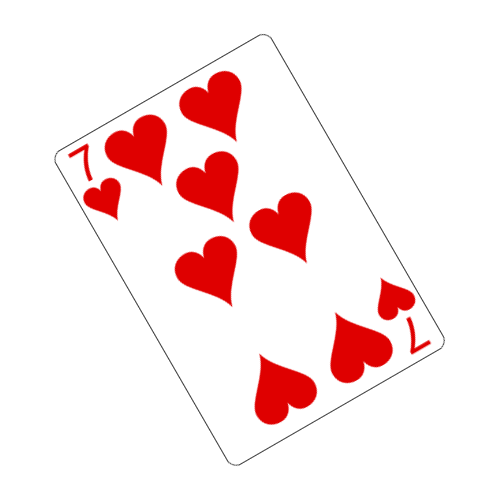
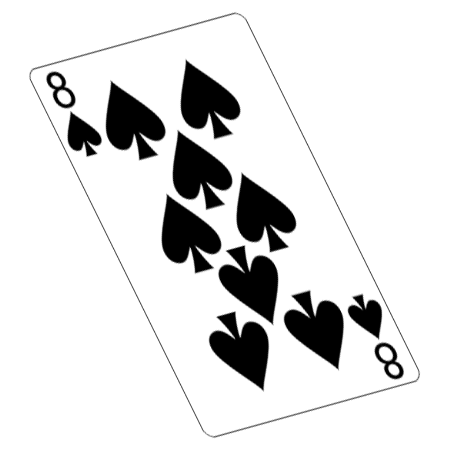
shear image

diff --git a/create_dataset.py b/create_dataset.py
@@ -8,6 +8,9 @@ from cv2.typing import MatLike
 
 cv2.namedWindow('tela') #temp
 
+CARD_WIDTH = 250
+CARD_HEIGHT = 363
+BACKGROUD = 450
 
 CARDS_PATH = 'datasets/cards'
 
@@ -70,14 +73,13 @@ CLASSES = {
 }
 
 
-def read_random_card() -> MatLike:
-    card_image = cv2.imread(os.path.join(CARDS_PATH, CARDS[random.randint(0, len(CARDS) - 1)]), cv2.IMREAD_UNCHANGED)
-    card_image = cv2.resize(card_image, (250, 363))
-    card_h, card_w, _ = card_image.shape
-    transparent_background = np.zeros((500, 500, 4), dtype=np.uint8)
-    card_pos_x = (500 - card_h) // 2
-    card_pos_y = (500 - card_w) // 2
-    transparent_background[card_pos_x:card_pos_x + card_h, card_pos_y:card_pos_y + card_w] = card_image
+def read_card(card_path: str) -> MatLike:
+    card_image = cv2.imread(os.path.join(CARDS_PATH, card_path), cv2.IMREAD_UNCHANGED)
+    card_image = cv2.resize(card_image, (CARD_WIDTH, CARD_HEIGHT))
+    transparent_background = np.zeros((BACKGROUD, BACKGROUD, 4), dtype=np.uint8)
+    card_pos_x = (BACKGROUD - CARD_HEIGHT) // 2
+    card_pos_y = (BACKGROUD - CARD_WIDTH) // 2
+    transparent_background[card_pos_x:card_pos_x + CARD_HEIGHT, card_pos_y:card_pos_y + CARD_WIDTH] = card_image
 
     return transparent_background
 
@@ -86,11 +88,34 @@ def rotate_image(image: MatLike, angle: int) -> MatLike:
     matrix_rotation = cv2.getRotationMatrix2D((height / 2, width / 2), angle, 1)
     return cv2.warpAffine(image, matrix_rotation, (height, width))
 
+def shear_image(image: MatLike, shear_x: float, shear_y: float) -> MatLike:
+    height, width, _ = image.shape
+
+    shear_matrix = np.array([
+        [1, shear_x, 0],
+        [shear_y, 1, 0]
+    ], dtype=np.float32)
+
+    new_width = int(width + abs(shear_x) * width)
+    new_height = int(height + abs(shear_y) * height)
+
+    sheared_image = cv2.warpAffine(image, shear_matrix, (new_width, new_height))
+
+    crop_y = (new_height - height) // 2
+    crop_x = (new_width - width) // 2
+
+    return sheared_image[crop_y: new_height - crop_y, crop_x: new_width - crop_x]
+
 path = kagglehub.dataset_download('ezzzio/random-images')
 
+card_image = read_card(CARDS[random.randint(0, len(CARDS) - 1)])
+
 angle = 30
-card_image = read_random_card()
 card_image = rotate_image(card_image, angle)
+
+shear_x = 0.0
+shear_y = 0.3
+card_image = shear_image(card_image, shear_x, shear_y)
 
 while True:
     cv2.imshow('tela', card_image)
